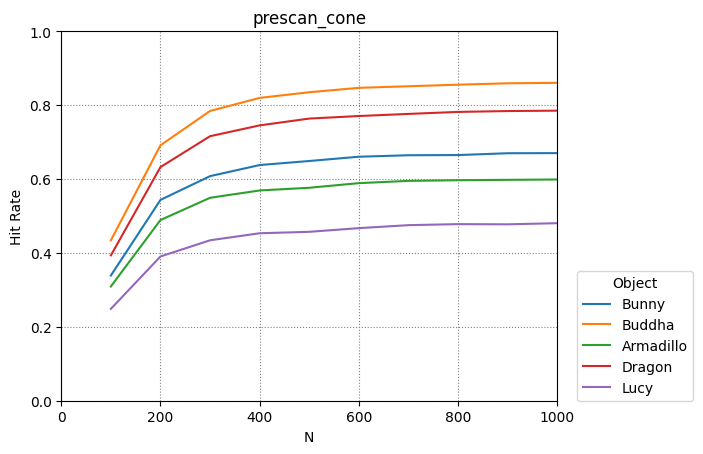
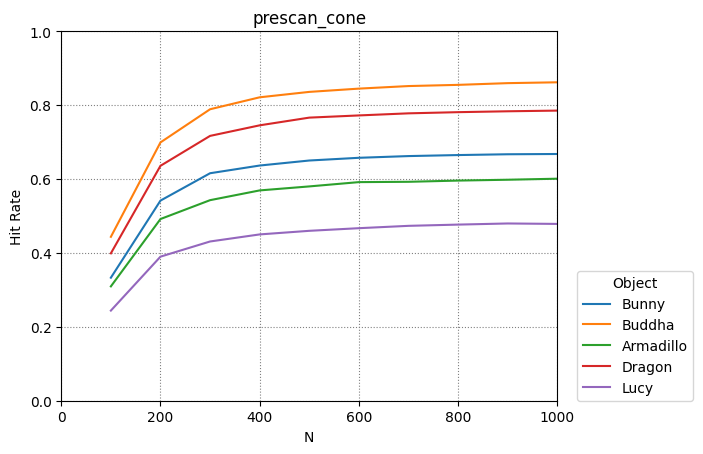
Refactor baseline hit rate script

diff --git a/analysis/hit_rate.py b/analysis/hit_rate.py
@@ -1,13 +1,7 @@
 import csv
-import torch
-import gc
 import argparse
-import numpy as np
 
-from ray_field import BUNNY, BUDDHA, ARMADILLO, DRAGON, LUCY
-from ray_field import utils
-from ray_field import prescan_cone
-from ifield.models import intersection_fields
+from ray_field import prescan_cone, baseline, model_dict
 
 import matplotlib
 import matplotlib.pyplot as plt
@@ -15,62 +9,22 @@ matplotlib.use('Agg')
 
 DIR_PATH = 'analysis/data/hit_rate'
 
-model_dict = {
-    'Bunny': BUNNY,
-    'Buddha': BUDDHA,
-    'Armadillo': ARMADILLO,
-    'Dragon': DRAGON,
-    'Lucy': LUCY
-}
-
 algorithm_list = ['baseline', 'prescan_cone']
 
-def compute_values() -> tuple[list[str], list[int], list[list[float]]]:
-    device = 'cuda' if torch.cuda.is_available() else 'cpu'
-
-    object_names = ['Bunny', 'Buddha', 'Armadillo', 'Dragon', 'Lucy']
+def compute_values_baseline() -> tuple[list[str], list[int], list[list[float]]]:
+    object_names = model_dict.keys()
     N_values = list(range(100, 1001, 100))
     hit_rates = []
 
-    for _ in object_names:
-        hit_rates.append([])
-
     for i in range(len(object_names)):
         print(object_names[i])
-        model = intersection_fields.IntersectionFieldAutoDecoderModel.load_from_checkpoint(model_dict[object_names[i]])
-        model.eval().to(device)
-
-        for N in N_values:
-            print(str(N), end=':\t')
-            sphere_points = utils.generate_equidistant_sphere_points(N)
-            origins, dirs = utils.generate_rays_between_points(sphere_points)
-
-            sphere_n = np.size(sphere_points, 0)
-            rays_n = sphere_n * (sphere_n - 1)
-
-            origins = origins.to(device)
-            dirs = dirs.to(device)
-
-            with torch.no_grad():
-                result = model.forward(dict(origins=origins, dirs=dirs), intersections_only = False)
-                is_intersecting = result[4].cpu().sum().item()
-                hit_rate = is_intersecting / rays_n
-            
-            hit_rates[i].append(hit_rate)
-            print(str(hit_rate))
-
-            del origins, dirs, result
-            torch.cuda.empty_cache()
-            gc.collect()
-        
-        model.cpu()
-        del model
-        torch.cuda.empty_cache()
+        result = baseline.baseline_hit_rate(object_names[i])
+        hit_rates.append(result)
 
     return object_names, N_values, hit_rates
 
 def compute_values_prescan_cone() -> tuple[list[str], list[int], list[list[float]]]:
-    object_names = ['Bunny', 'Buddha', 'Armadillo', 'Dragon', 'Lucy']
+    object_names = model_dict.keys()
     N_values = list(range(100, 1001, 100))
     hit_rates = []
 
@@ -146,7 +100,7 @@ if args.Load:
     plot_results(object_names, N_values, hit_rates, args.Algorithm)
 elif args.Save:
     if args.Algorithm == 'baseline':
-        object_names, N_values, hit_rates = compute_values()
+        object_names, N_values, hit_rates = compute_values_baseline()
     elif args.Algorithm == 'prescan_cone':
         object_names, N_values, hit_rates = compute_values_prescan_cone()
     else:

diff --git a/ray_field/baseline.py b/ray_field/baseline.py
@@ -1,28 +1,48 @@
 import torch
-from ray_field import utils, CheckpointName, get_checkpoint, POISSON_DEPTH
-from ifield.models import intersection_fields
+from ray_field import utils, CheckpointName, POISSON_DEPTH
 from open3d.geometry import TriangleMesh
+from numpy import ndarray
+
+def baseline_scan(model, origins: torch.Tensor, dirs: torch.Tensor) -> tuple[ndarray, ndarray]:
+    result = model.forward(dict(origins=origins, dirs=dirs), intersections_only = False)
+
+    intersections = result[2]
+    intersection_normals = result[3]
+    is_intersecting = result[4]
+
+    is_intersecting = torch.flatten(is_intersecting)
+    intersections = torch.flatten(intersections, end_dim=2)[is_intersecting].cpu().detach().numpy()
+    intersection_normals = torch.flatten(intersection_normals, end_dim=2)[is_intersecting].cpu().detach().numpy()
+
+    return intersections, intersection_normals
 
 def baseline(model_name: CheckpointName, N: int) -> TriangleMesh:
-    checkpoint = get_checkpoint(model_name)
-
-    device = 'cuda' if torch.cuda.is_available() else 'cpu'
-    model = intersection_fields.IntersectionFieldAutoDecoderModel.load_from_checkpoint(checkpoint)
-    model.eval().to(device)
-
-    origins, dirs = utils.generate_rays_between_sphere_points(N)
-    origins = origins.to(device)
-    dirs = dirs.to(device)
+    model, device = utils.init_model(model_name)
+    origins, dirs = utils.generate_sphere_rays(device, N)
 
     with torch.no_grad():
-        result = model.forward(dict(origins=origins, dirs=dirs), intersections_only = False)
-
-        intersections = result[2].cpu()
-        intersection_normals = result[3].cpu()
-        is_intersecting = result[4].cpu()
-
-        is_intersecting = torch.flatten(is_intersecting)
-        intersections = torch.flatten(intersections, end_dim=2)[is_intersecting].detach().numpy()
-        intersection_normals = torch.flatten(intersection_normals, end_dim=2)[is_intersecting].detach().numpy()
+        intersections, intersection_normals = baseline_scan(model, origins, dirs)
 
     return utils.poisson_surface_reconstruction(intersections, intersection_normals, POISSON_DEPTH)
+
+def baseline_hit_rate(model_name: CheckpointName) -> list[float]:
+    model, device = utils.init_model(model_name)
+
+    hit_rates = []
+
+    with torch.no_grad():
+        for N in range(100, 1001, 100):
+            print(N, end='\t')
+            origins, dirs = utils.generate_sphere_rays(device, N)
+            sphere_n = origins.shape[0]
+            rays_n = sphere_n * (sphere_n - 1)
+
+            intersections, _ = baseline_scan(model, origins, dirs)
+            
+            hit_rate = intersections.shape[0] / rays_n
+            hit_rates.append(hit_rate)
+            print(f'{hit_rate:.3f}')
+
+            torch.cuda.empty_cache()
+
+    return hit_rates

diff --git a/ray_field/prescan_cone.py b/ray_field/prescan_cone.py
@@ -1,26 +1,9 @@
 import torch
-from ray_field import utils, CheckpointName, get_checkpoint, POISSON_DEPTH
-from ifield.models import intersection_fields
+from ray_field import utils, CheckpointName, POISSON_DEPTH
 from open3d.geometry import TriangleMesh
 from numpy import ndarray
 
 PRESCAN_N = 100
-
-def init_model(model_name: CheckpointName) -> tuple[intersection_fields.IntersectionFieldAutoDecoderModel, str]:
-    checkpoint = get_checkpoint(model_name)
-
-    device = 'cuda' if torch.cuda.is_available() else 'cpu'
-    model = intersection_fields.IntersectionFieldAutoDecoderModel.load_from_checkpoint(checkpoint).to(device)
-    model.eval()
-
-    return model, device
-
-def generate_sphere_rays(device: str) -> tuple[torch.Tensor, torch.Tensor]:
-    origins, dirs = utils.generate_rays_between_sphere_points(PRESCAN_N)
-    origins = origins.to(device)
-    dirs = dirs.to(device)
-
-    return origins, dirs
 
 def generate_cone_rays(intersections: torch.Tensor, N: int, device: str) -> tuple[torch.Tensor, torch.Tensor]:
     r = intersections.abs().max().item()
@@ -52,10 +35,10 @@ def prescan_cone_targeted_scan(model, origins: torch.Tensor, dirs: torch.Tensor)
     return intersections, intersection_normals
 
 def prescan_cone(model_name: CheckpointName, N: int) -> TriangleMesh:
-    model, device = init_model(model_name)
+    model, device = utils.init_model(model_name)
 
     with torch.no_grad():
-        origins, dirs = generate_sphere_rays(device)
+        origins, dirs = utils.generate_sphere_rays(device, PRESCAN_N)
         intersections = prescan_cone_broad_scan(model, device)
 
         origins, dirs = generate_cone_rays(intersections, N, device)
@@ -64,12 +47,12 @@ def prescan_cone(model_name: CheckpointName, N: int) -> TriangleMesh:
     return utils.poisson_surface_reconstruction(intersections, intersection_normals, POISSON_DEPTH)
 
 def prescan_cone_hit_rate(model_name: CheckpointName) -> list[float]:
-    model, device = init_model(model_name)
+    model, device = utils.init_model(model_name)
 
     hit_rates = []
 
     with torch.no_grad():
-        origins, dirs = generate_sphere_rays(device)
+        origins, dirs = utils.generate_sphere_rays(device, PRESCAN_N)
         broad_intersections = prescan_cone_broad_scan(model, origins, dirs)
 
         init_sphere_n = origins.shape[0]

diff --git a/ray_field/utils.py b/ray_field/utils.py
@@ -3,9 +3,11 @@ import numpy as np
 import open3d as o3d
 
 from numpy import ndarray
-from open3d.geometry import TriangleMesh, AxisAlignedBoundingBox
+from open3d.geometry import TriangleMesh
 from open3d.utility import VerbosityLevel
 from sklearn.neighbors import BallTree
+from ray_field import CheckpointName, get_checkpoint
+from ifield.models import intersection_fields
 
 def spherical_to_cartesian(r: float, theta: float, phi: float) -> tuple[float, float, float]:
     """
@@ -177,6 +179,8 @@ def generate_rays_in_cone(points: ndarray, n: int, alpha: float) -> tuple[torch.
     """
     dirs: list = []
 
+    random_generator = np.random.default_rng(0)
+
     for i in range(points.shape[0]):
         dirs.append([[]])
 
@@ -187,8 +191,8 @@ def generate_rays_in_cone(points: ndarray, n: int, alpha: float) -> tuple[torch.
         up = np.cross(right, central_dir)
         
         for _ in range(n):
-            theta = np.random.uniform(0, 2 * np.pi)  # Azimuth angle
-            cos_beta = np.random.uniform(np.cos(alpha), 1)  # Tilt angle
+            theta = random_generator.uniform(0, 2 * np.pi)  # Azimuth angle
+            cos_beta = random_generator.uniform(np.cos(alpha), 1)  # Tilt angle
             sin_beta = np.sqrt(1 - cos_beta ** 2)
 
             direction = (cos_beta * central_dir + 
@@ -215,3 +219,19 @@ def generate_cone_rays_between_sphere_points(N: int, r: float) -> tuple[torch.Te
     n = np.size(sphere_points, 0)
     
     return generate_rays_in_cone(sphere_points, n - 1, alpha)
+
+def init_model(model_name: CheckpointName) -> tuple[intersection_fields.IntersectionFieldAutoDecoderModel, str]:
+    checkpoint = get_checkpoint(model_name)
+
+    device = 'cuda' if torch.cuda.is_available() else 'cpu'
+    model = intersection_fields.IntersectionFieldAutoDecoderModel.load_from_checkpoint(checkpoint).to(device)
+    model.eval()
+
+    return model, device
+
+def generate_sphere_rays(device: str, N: int) -> tuple[torch.Tensor, torch.Tensor]:
+    origins, dirs = generate_rays_between_sphere_points(N)
+    origins = origins.to(device)
+    dirs = dirs.to(device)
+
+    return origins, dirs
